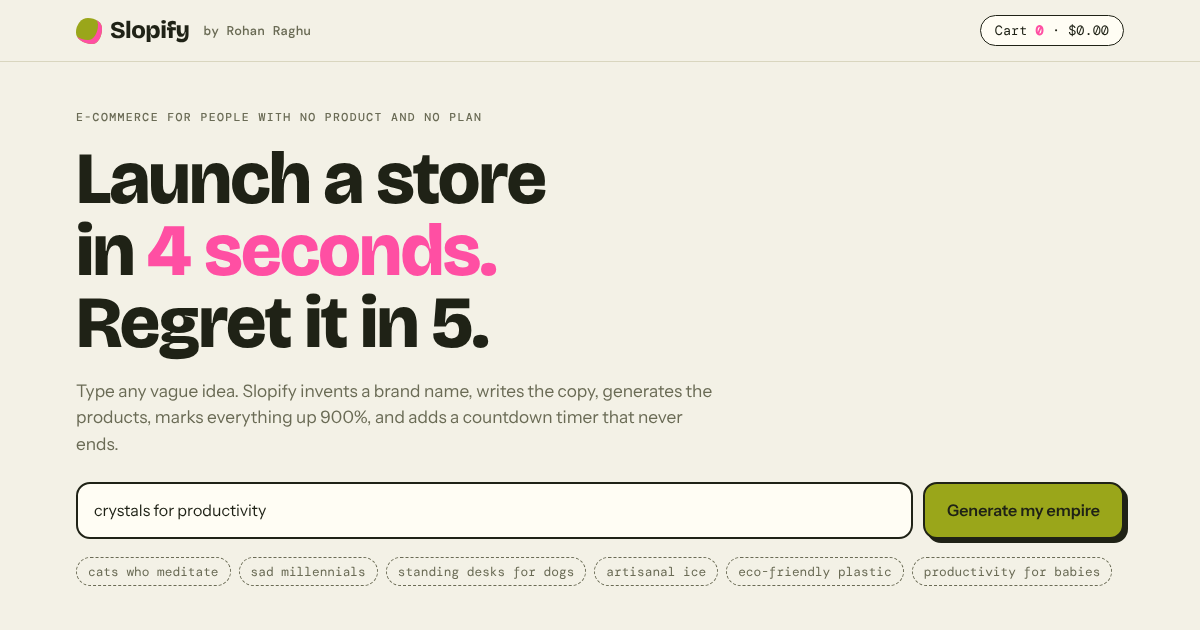
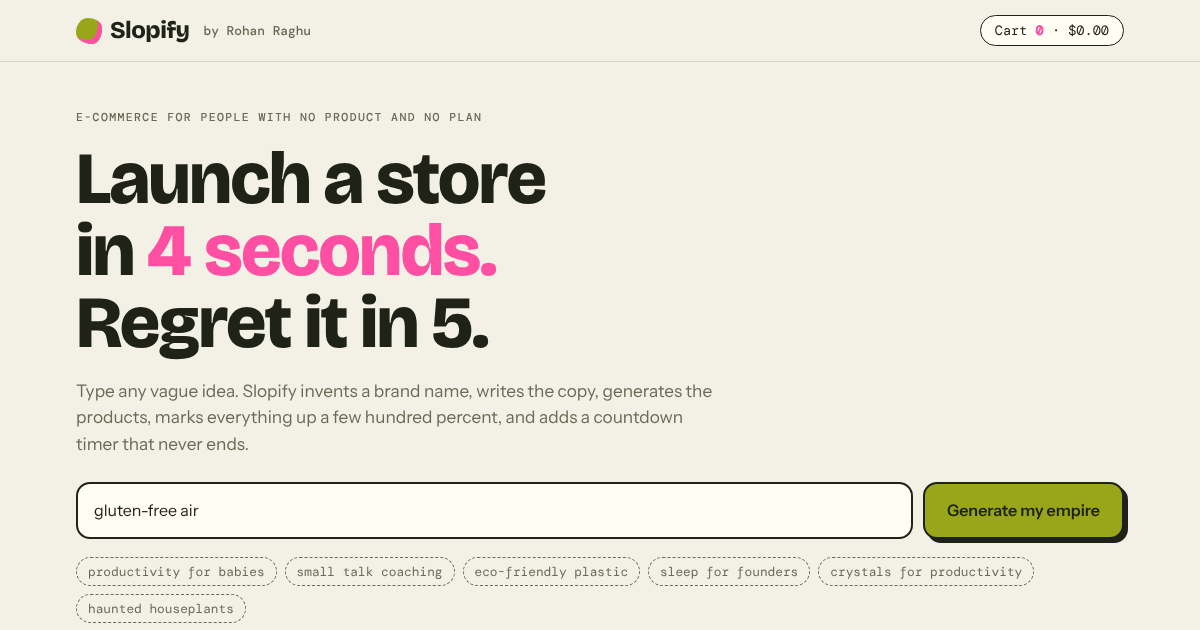
Slopify: random starting prompt and chips, markups of 150 to 350 percent
Claude-Session: https://claude.ai/code/session_01BpVTioM965fgi445JJFbGG

diff --git a/slopify/index.html b/slopify/index.html
@@ -135,10 +135,10 @@ footer .wrap{padding-block:22px;font:400 .78rem var(--mono);color:var(--muted)}
 <section class="wrap hero" id="home">
   <span class="label">E-commerce for people with no product and no plan</span>
   <h1>Launch a store in <em>4 seconds.</em> Regret it in 5.</h1>
-  <p>Type any vague idea. Slopify invents a brand name, writes the copy, generates the products, marks everything up 900%, and adds a countdown timer that never ends.</p>
+  <p>Type any vague idea. Slopify invents a brand name, writes the copy, generates the products, marks everything up a few hundred percent, and adds a countdown timer that never ends.</p>
   <form class="gen" id="genForm">
     <label for="niche" class="label" hidden>Your niche</label>
-    <input id="niche" name="niche" placeholder="e.g. cats who meditate" value="crystals for productivity" autocomplete="off">
+    <input id="niche" name="niche" placeholder="e.g. cats who meditate" autocomplete="off">
     <button class="btn" type="submit">Generate my empire</button>
   </form>
   <div class="chips" id="chips"></div>
@@ -183,7 +183,8 @@ const tags=["Bestseller","Going viral","Seen on a reel","Only 3 left","New drop"
 const ships=["Ships in 6 to 40 weeks","Ships from a cargo container","Ships eventually","Ships in a smaller box than shown","Ship date: vibes"];
 const taglines=n=>[`${cap(n)}, but make it a lifestyle.`,`The ${n} brand your algorithm already chose for you.`,`We took ${n} and added a subscription.`,`Disrupting ${n} since this morning.`];
 const banners=["FREE SHIPPING ON ORDERS OVER $9,000","SALE ENDS IN 00:14:59 (IT RESETS)","AS SEEN ON A PHONE","HANDCRAFTED BY A WAREHOUSE","EVERY PURCHASE PLANTS ONE IMAGINARY TREE"];
-const ideas=["cats who meditate","sad millennials","standing desks for dogs","artisanal ice","eco-friendly plastic","productivity for babies"];
+const ideas=["cats who meditate","sad millennials","standing desks for dogs","artisanal ice","eco-friendly plastic","productivity for babies","crystals for productivity","gym bros who journal","haunted houseplants","luxury tap water","NFTs for grandparents","sleep for founders","keto for goldfish","minimalist clutter","gluten-free air","remote work for pigeons","small talk coaching","ergonomic spoons","therapy for robots","vintage brand-new jeans"];
+const shuffled=[...ideas].sort(()=>Math.random()-.5);
 
 let cart={n:0,t:0};
 const money=v=>"$"+v.toLocaleString("en-US",{minimumFractionDigits:2,maximumFractionDigits:2});
@@ -205,17 +206,18 @@ function art(cv,hue){
 function brandName(niche,salt){seed=hash(niche.toLowerCase()+"|"+salt);return pick(prefixes)+pick(suffixes)}
 function renderStore(el,st,live){
   const niche=st.niche,name=brandName(niche,st.salt);
+  const markup=150+Math.floor(rnd()*200);
   el.innerHTML=`
     <div class="banner"><span>${[...Array(3)].map(()=>pick(banners)).join("  ★  ")}</span></div>
     <div class="storehead"><span class="label">${live?"Open for business (nobody visited yet)":"Preview: not published"}</span>
       <h2>${esc(name)}</h2><p>${esc(pick(taglines(niche)))}</p></div>
-    <div class="meta"><span>Niche: <b>${esc(niche)}</b></span><span>Markup: <b>${(800+Math.floor(rnd()*400))}%</b></span><span>Original thoughts: <b>0</b></span></div>
+    <div class="meta"><span>Niche: <b>${esc(niche)}</b></span><span>Markup: <b>${markup}%</b></span><span>Original thoughts: <b>0</b></span></div>
     <div class="grid"></div><div class="row"></div>`;
   const grid=el.querySelector(".grid");
   for(let i=0;i<6;i++){
-    const cost=+(0.4+rnd()*3).toFixed(2);
-    const now=Math.round(cost*(10+rnd()*20))-0.01;
-    const was=Math.round(now*(1.8+rnd()*2))-0.01;
+    const cost=+(3+rnd()*12).toFixed(2);
+    const now=Math.round(cost*(1+markup/100))-0.01;
+    const was=Math.round(now*(1.4+rnd()*.6))-0.01;
     const left=1+Math.floor(rnd()*4);
     const title=`${pick(adjectives)} ${cap(niche.split(" ").slice(-1)[0])} ${pick(objects)}`;
     const c=document.createElement("article");c.className="card";
@@ -273,9 +275,9 @@ let tt;function toast(m){const t=$("#toast");t.textContent=m;t.classList.add("on
 $("#cartBtn").onclick=()=>toast(cart.n?`Checkout disabled. Your ${cart.n} items are emotionally yours now.`:"Your cart is as empty as our business plan.");
 $("#genForm").onsubmit=e=>{e.preventDefault();preview($("#niche").value)};
 $("#backBtn").onclick=()=>{location.hash="";document.title="Slopify · Rohan Raghu"};
-ideas.forEach(i=>{const b=document.createElement("button");b.type="button";b.className="chip";b.textContent=i;b.onclick=()=>{$("#niche").value=i;preview(i)};$("#chips").append(b)});
+shuffled.slice(1,7).forEach(i=>{const b=document.createElement("button");b.type="button";b.className="chip";b.textContent=i;b.onclick=()=>{$("#niche").value=i;preview(i)};$("#chips").append(b)});
 addEventListener("hashchange",route);
-preview($("#niche").value);route();
+$("#niche").value=shuffled[0];$("#niche").placeholder="e.g. "+shuffled[1];preview(shuffled[0]);route();
 
 </script>
 </body>

diff --git a/index.html b/index.html
@@ -685,7 +685,7 @@
           <div class="main">
             <h3>Slopify</h3>
             <p class="desc">A parody store builder. Type any vague idea and it invents a brand,
-              six products, a 900% markup and a countdown timer that never ends. Every store
+              six products, a markup of a few hundred percent and a countdown timer that never ends. Every store
               is rebuilt from its link, so anyone you send it to sees the same one.</p>
             <span class="go">Open a store →</span>
           </div>
